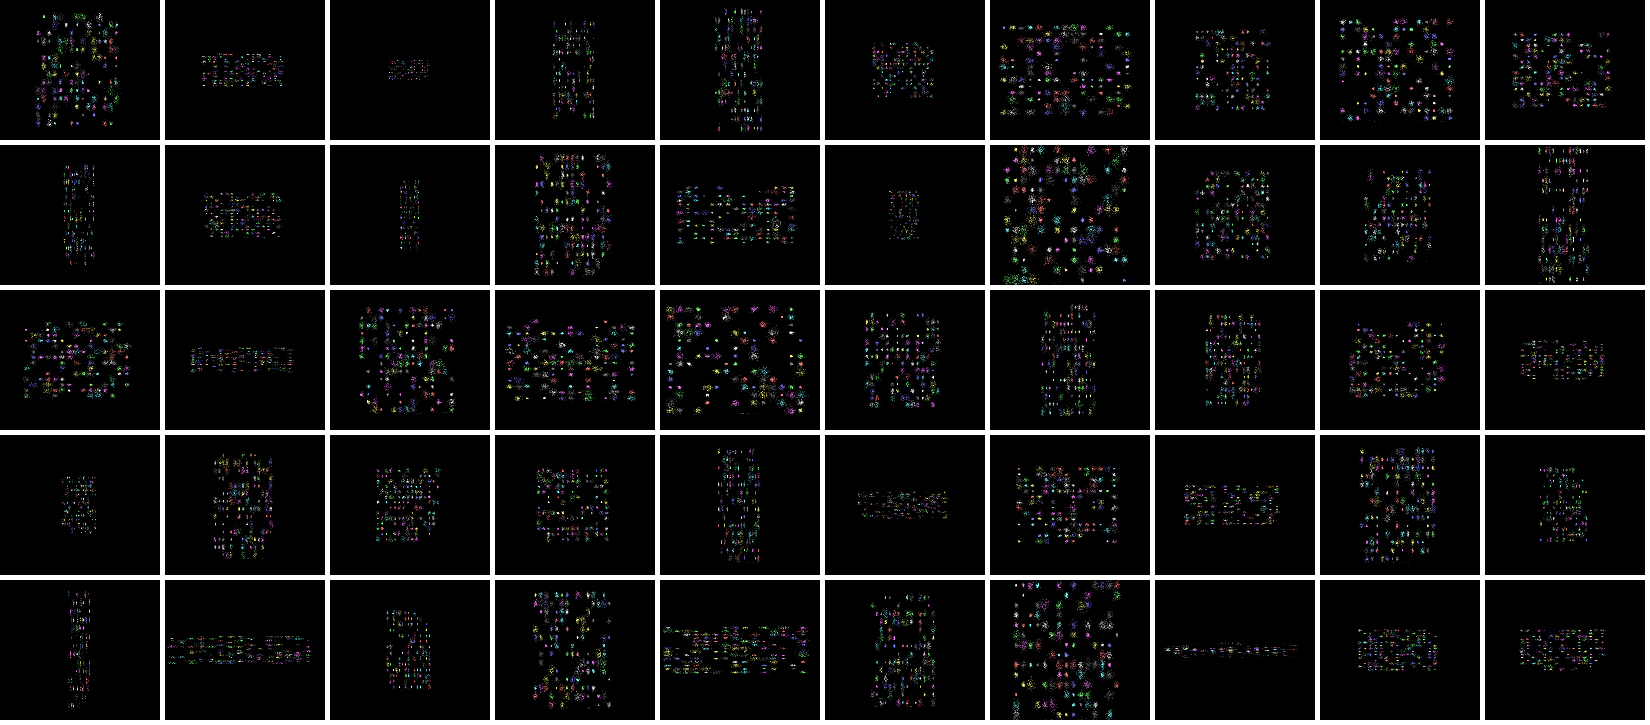
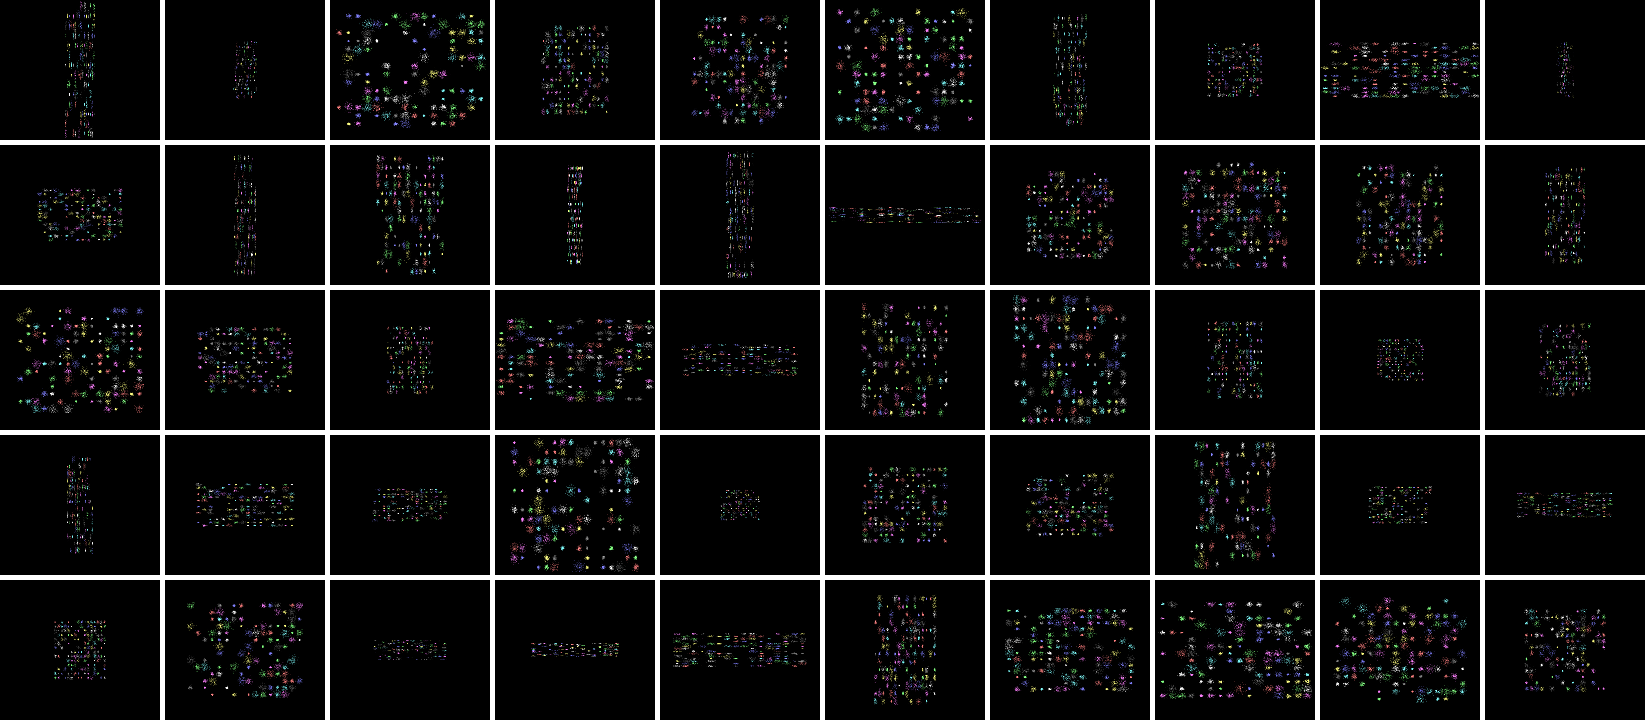
snapshot

diff --git a/model/mira220/qam_test/train.py b/model/mira220/qam_test/train.py
@@ -11,7 +11,8 @@ import datetime
 import random
 
 parser = argparse.ArgumentParser(formatter_class=argparse.ArgumentDefaultsHelpFormatter)
-parser.add_argument('--stretch', help='grid random scale',default=0.3, type=float)
+parser.add_argument('--gallery', help='produce thumbnail examples',default=False, action='store_true')
+parser.add_argument('--stretch', help='grid random scale',default=0.9, type=float)
 parser.add_argument('--nballs', help='sample size',default=2000, type=int)
 parser.add_argument('--ballsize', help='gaussian scale',default=10.0, type=float)
 parser.add_argument('--log', help='log file',default='./log.train')
@@ -75,7 +76,8 @@ def generate_batch(args):
     d = np.zeros([args.batch,1400,1600,3]).astype(np.uint8)
     l = np.zeros([args.batch,14*16]).astype(np.float32)
     #grid=[(x,y) for x in range(-args.sidex//2,args.sidex//2,args.spacex) for y in range(-args.sidey//2,args.sidey//2,args.spacey)]
-    grid=[(x+args.spacex//2,y+args.spacey//2) for x in range(0,args.sidex+args.spacex,args.spacex) for y in range(0,args.sidey+args.spacey,args.spacey)]
+    grid=[(x+args.spacex//2,y+args.spacey//2) for x in range(0,args.sidex,args.spacex) for y in range(0,args.sidey,args.spacey)]
+    #print('grid',len(grid),grid)
     # randomly render colored gaussian balls on grid
     for i in range(args.batch):
         for j in range(14*16):
@@ -107,6 +109,24 @@ def generate_batch(args):
     cv2.imshow('train', cv2.resize(d[0],dsize=(800,700),interpolation=cv2.INTER_LINEAR)) 
     cv2.waitKey(1)
     return (d/255.,l)
+
+if args.gallery:
+    border=5
+    h=140
+    w=160
+    col=10
+    row=5
+    args.batch=row*col
+    d,l=generate_batch(args)
+    d = (d*255).astype(np.uint8)
+    img=np.zeros([(h+border)*row,(w+border)*col,3],dtype=np.uint8)
+    img.fill(255)
+    for i in range(d.shape[0]):
+        img[(i//col)*(h+border):(i//col)*(h+border)+h,(i%col)*(w+border):(i%col)*(w+border)+w]=cv2.resize(d[i],dsize=(w,h),interpolation=cv2.INTER_LANCZOS4)
+    cv2.imshow('gallery',img)
+    cv2.imwrite('gallery.png',img)
+    cv2.waitKey(0)
+    exit()
 
 opt = tf.keras.optimizers.Adam(args.lr)
 model.compile(optimizer=opt)
